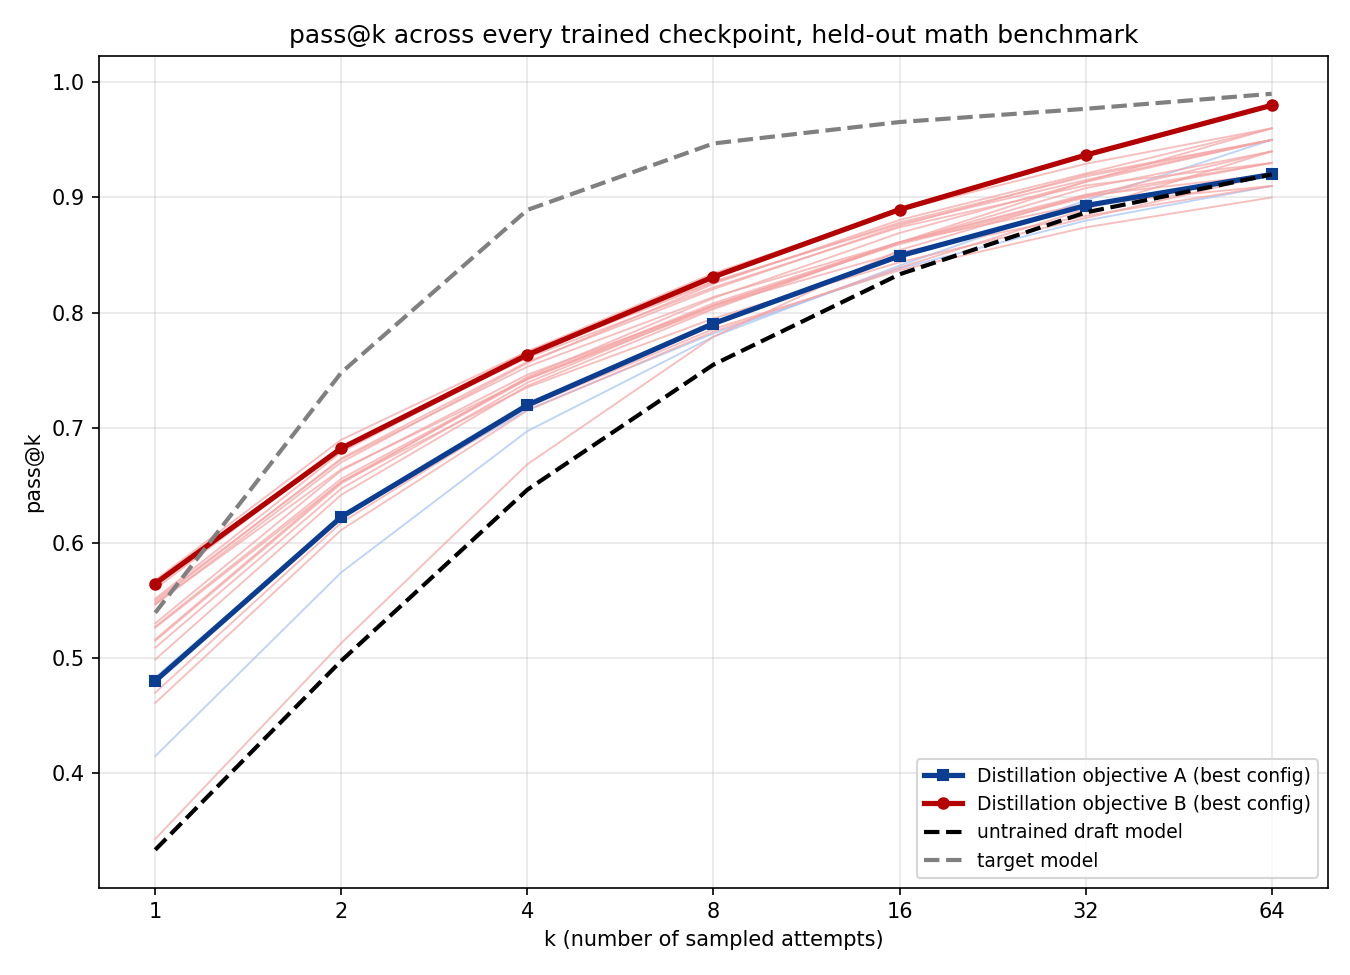
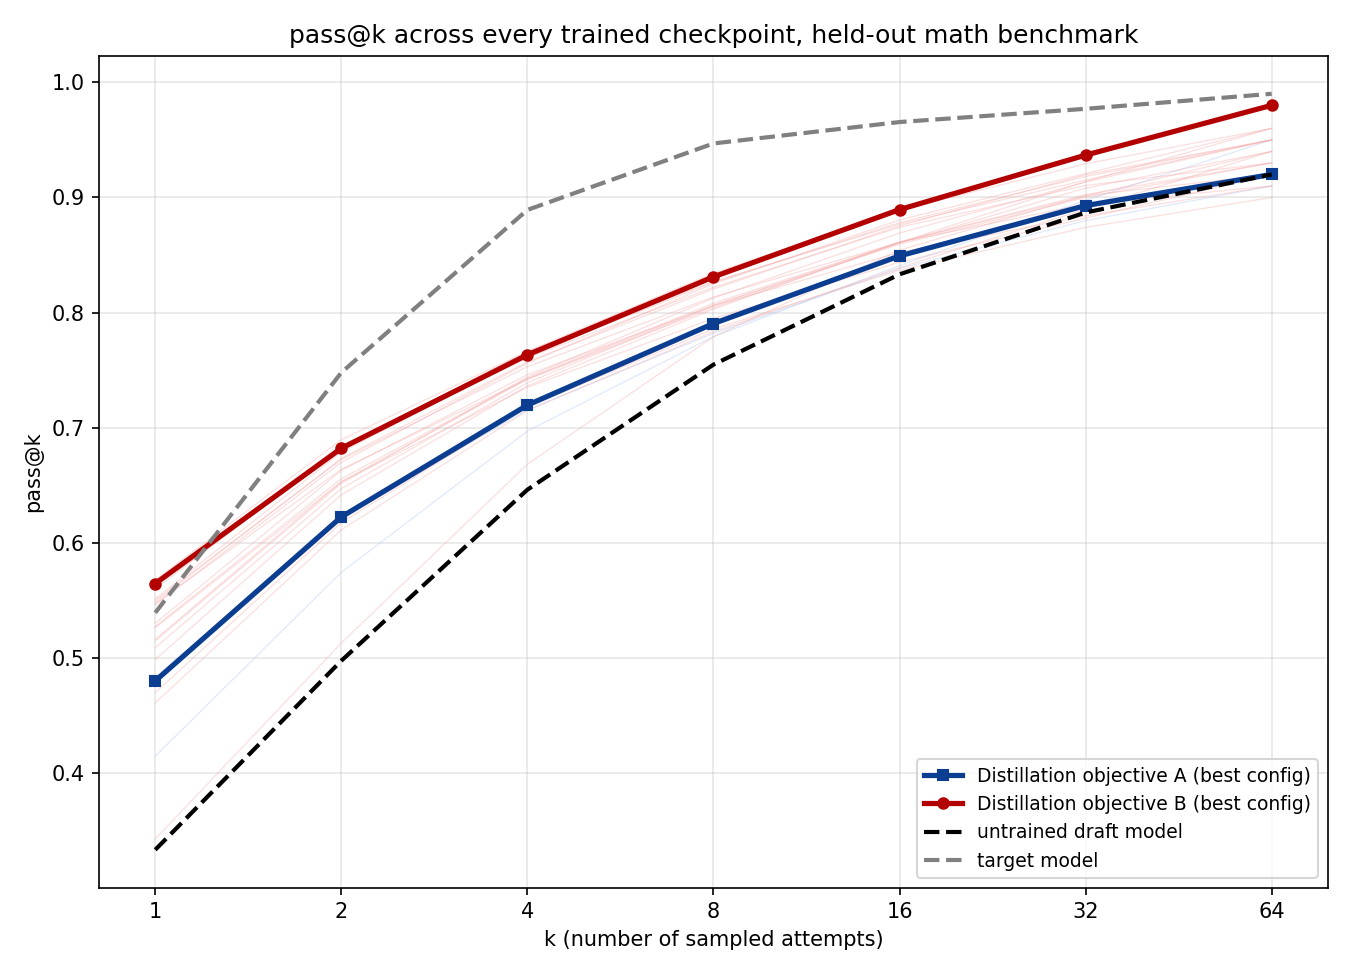
docs(notes): tighten Medium draft ~200 words, remove passive transitions
Moved codebase-size line into the intro bullets, split a dense
six-concept sentence, fixed passive framing ("The stronger result
came from..." -> direct statements), replaced "production runs" with
accurate "full experiment sweeps", strengthened the day-to-day
research-iteration sentence, and shortened redundant image alt-text
since the italic captions already carry that detail. Also faded the
pass@k chart's background curves further so the two highlighted lines
dominate.

Changed region(s): [[0.1244, 0.1231, 0.9333, 0.7077]]

diff --git a/notes/medium_article_draft.md b/notes/medium_article_draft.md
@@ -6,69 +6,67 @@ Over eight weeks I:
 
 - Ran 500+ tracked experiments (about 250 training runs), logged in Weights & Biases
 - Evaluated 71 trained checkpoints across 4,000+ measurements
-- Built a multi-GPU experiment and evaluation pipeline in PyTorch and HuggingFace, with generation served through vLLM
-- Developed and experimentally validated hypotheses for why several distillation objectives underperformed in this setting. Some were adapted from published work, others were novel constructions we designed ourselves
+- Built a multi-GPU experiment and evaluation pipeline in PyTorch and HuggingFace, with generation served through vLLM, growing to roughly 10,000 lines of training, evaluation, and experiment-management code
+- Developed and experimentally validated hypotheses for why several distillation objectives, some adapted from published work and some designed from scratch, underperformed in this setting
 - Developed a multi-sample distillation approach that beat the standard flat-divergence baseline (JSD)
 - Extended a verification-time speculative decoding technique to trained draft models. The original paper only evaluated it on untrained ones
 
-The project combined research, systems engineering, and experimental design. That meant reproducing published methods, building scalable infrastructure, and figuring out why objectives succeeded or failed.
+The project combined research, systems engineering, and experimental design: reproducing published methods, building scalable infrastructure, and figuring out why objectives succeeded or failed.
 
 ## The problem
 
-LLMs decode one token at a time, and each token costs a full forward pass. Speculative decoding adds a small, fast draft model that proposes several tokens ahead. A large target model then verifies them in one parallel pass and accepts the longest matching prefix. The core metric is block efficiency: accepted tokens per target call. Raising it means raising the draft's acceptance rate, and the standard lever for that is knowledge distillation, training the draft to match the target's output distribution. The project's central question was which distillation objective actually moves block efficiency, tested on a Qwen 0.6B/8B draft-target pair and a wider Qwen 1.7B/32B pair.
+LLMs decode one token at a time, and each token costs a full forward pass. Speculative decoding adds a small, fast draft model that proposes several tokens ahead. A large target model then verifies them in one parallel pass and accepts the longest matching prefix. The core metric is block efficiency: accepted tokens per target call.
 
-The codebase grew to roughly 10,000 lines of PyTorch training, evaluation, and experiment-management code, covering automated checkpointing, multi-GPU experiment orchestration, and analysis tooling. That excludes a separately vendored verifier library used as-is.
+Raising block efficiency means raising the draft's acceptance rate, and the standard lever for that is knowledge distillation: training the draft to match the target's output distribution. The project's central question was which distillation objective actually moves block efficiency, tested on a Qwen 0.6B/8B draft-target pair and a wider Qwen 1.7B/32B pair.
 
-![Project architecture: the speculative decoding inference loop, the distillation training loop built on top of it, and the multi-GPU evaluation pipeline used to measure everything.](medium_chart_architecture.png)
+![Project architecture](medium_chart_architecture.png)
 *Three layers: the inference-time mechanism being optimized, the training loop that shapes the draft model, and the evaluation infrastructure that measured whether it worked.*
 
 ## Building the research infrastructure
 
-I built a multi-GPU experiment pipeline supporting parallel training, checkpoint recovery after crashes, automated evaluation across every verifier by tree-width by dataset combination, and cross-checkpoint analysis at scale. It started on a memory-constrained Colab T4 (which needed 4-bit quantization to fit the 8B target), moved to Kaggle's dual-T4 setup, then to A100s for production runs. A separate vLLM-based evaluation pipeline generated tens of thousands of samples for pass@k benchmarking. It relies on a paged KV-cache (a cache of each token's attention keys and values so the model doesn't recompute them at every new step) plus continuous batching, which together keep generation fast enough to be usable at that scale. I added resumable, checkpoint-skipping logic on top so a killed run never lost completed work.
+I built a multi-GPU experiment pipeline for parallel training, checkpoint recovery after crashes, automated evaluation across every verifier by tree-width by dataset combination, and cross-checkpoint analysis at scale. It started on a memory-constrained Colab T4, needing 4-bit quantization just to fit the 8B target, then Kaggle's dual-T4 setup, then A100s for the full experiment sweeps. A separate vLLM-based pipeline generated tens of thousands of samples for pass@k benchmarking, using a paged KV-cache (each token's attention keys and values, cached so the model never recomputes them) plus continuous batching to stay fast at that scale, with resumable, checkpoint-skipping logic so a killed run never lost completed work.
 
-A typical experiment cycle looked like this: implement a new loss variant in PyTorch, validate its gradient behavior against a known baseline on a handful of steps, launch a multi-GPU sweep tracked in Weights & Biases, evaluate every resulting checkpoint across the full verifier grid, then write or extend an analysis script to compare acceptance metrics and pass@k against prior runs.
+A typical research iteration involved implementing a new objective in PyTorch, validating its gradients on a handful of toy steps, launching multi-GPU sweeps across all 500+ runs tracked in Weights & Biases, evaluating every checkpoint across the full verifier grid, and extending custom analysis scripts to check whether observed gains exceeded the estimated noise floor rather than being single-seed noise.
 
-One infrastructure bug is worth calling out on its own. FlashAttention and PyTorch's native SDPA kernel compute mathematically identical attention but round differently in bf16. Almost everywhere that's invisible. Here, acceptance is a hard threshold, so a last-decimal rounding difference can flip one accepted token and cascade through the rest of a generation. Two runs on two machines, identical except for attention backend, diverged by roughly 0.2 block efficiency, comparable to the effects I was trying to measure. The fix was to pin one backend everywhere and log which ran, but finding it required reasoning about kernel-level numerics, not model architecture.
-
-All 500+ runs were tracked in Weights & Biases across two projects, with custom analysis tooling to surface hyperparameter effects and flag single-seed noise before it got mistaken for a real result.
+One infrastructure bug is worth calling out on its own. FlashAttention and PyTorch's native SDPA kernel compute mathematically identical attention but round differently in bf16, almost always invisibly. Here, acceptance is a hard threshold, so a last-decimal rounding difference can flip one accepted token and cascade through the rest of a generation. Two runs on two machines, identical except for attention backend, diverged by roughly 0.2 block efficiency, comparable to the effects I was trying to measure. Fixing it meant pinning one backend everywhere and logging which ran, which required reasoning about kernel-level numerics, not model architecture.
 
 ## Investigating training objectives
 
 I designed ablation studies to isolate which distillation objectives transfer to higher block efficiency, and which only look correct on paper.
 
-A verifier-aligned tree loss, a training objective built directly around the same accept/reject rule used at inference time, optimized a telescoping product of per-step acceptance probabilities. That trains the draft to match the target deep into a sequence of guesses, not just the first token. A log-space reformulation prevented the gradient from vanishing at depth, but it also shifted the objective's weighting toward deep, low-probability continuations the draft rarely reached in practice. That led to consistently worse training dynamics, and outright collapse in a from-scratch, wider-capacity-gap setting where block efficiency dropped by 0.4 to 0.6. A second objective, built to target the exact deployment verifier directly (the most "aligned" choice on paper), was the single worst-performing variant tested, for a similar reason: matching the target's exact acceptance criterion turned out to weight the objective toward positions the draft could not yet reach. These results suggested that an objective aligned with the eval metric on paper isn't automatically trainable. Gradient allocation across the sequence mattered more than how closely the objective's form matched the final metric.
+One family I tested was a verifier-aligned tree loss: a training objective built directly around the same accept/reject rule used at inference time, training the draft to match the target deep into a sequence of guesses, not just the first token. Written naturally, its gradient signal vanishes with depth. The standard fix, a log-space reformulation, solves that but shifts weight toward deep, low-probability continuations the draft rarely reaches in practice. I applied it, and results got worse, including an outright collapse in a from-scratch, wider-capacity-gap setting where block efficiency dropped by 0.4 to 0.6. A second objective, built to target the exact deployment verifier directly, the most "aligned" choice on paper, was the single worst performer of all, for the same reason: matching the target's exact acceptance criterion pushed weight onto positions the draft could not yet reach. The lesson: an objective aligned with the eval metric on paper is not automatically trainable. Gradient allocation across the sequence mattered more than how closely its form matched the final metric.
 
-Two further hypotheses looked unlikely to work before I ran them, and I ran a number of variants of each anyway to confirm it. A depth-weighted curriculum used a detached scalar multiplying the loss, which rescales gradient magnitude, not direction, so it couldn't address a capacity bottleneck no matter how it was tuned. Several weighting schemes across two model pairs bore that out. A REINFORCE-based formulation rewarded block efficiency directly. In this setting, the policy-gradient objective encouraged the draft to concentrate around its own high-reward trajectories rather than matching the target's broader output distribution, and the metric declined in a clean, monotonic pattern consistent with that mechanism.
+Two further hypotheses looked unlikely to work before I ran them, and I confirmed both with several variants each. A depth-weighted curriculum used a detached scalar multiplying the loss, which rescales gradient magnitude, not direction, so it could not fix a capacity bottleneck no matter how it was tuned, and it did not. A REINFORCE-based formulation rewarded block efficiency directly, but that objective pulls a model toward its own high-reward trajectories rather than the target's broader output distribution, and the metric declined in a clean, monotonic pattern consistent with that mechanism.
 
 ## Extending existing methods
 
-The one training-side change that beat the baseline was distilling on multiple stochastic rollouts sampled from the target, instead of a single greedy continuation. Broader coverage of the target's actual output distribution outperformed standard JSD distillation, with a sweet spot at four rollouts, and the gain held on an out-of-distribution eval set.
+Multi-rollout distillation, sampling several stochastic continuations from the target instead of a single greedy one, was the one training-side change that beat the baseline. Broader coverage of the target's actual output distribution outperformed standard JSD distillation, with a sweet spot at four rollouts, and the gain held on an out-of-distribution eval set.
 
-The stronger result came from the verification side. A recent technique delays where the draft's speculation tree branches, committing to a single stem before splitting into candidates instead of branching at the first token, targeting branch points where draft and target distributions actually diverge. The original paper evaluated this only on untrained draft models. I built it out and swept it across every trained checkpoint in the project, on both the 0.6B/8B and 1.7B/32B pairs. It improved block efficiency on nearly all of them, with gains increasing at greater speculation depth and larger on weaker starting checkpoints. To the best of my knowledge, I couldn't find a prior evaluation of this technique on trained, distilled drafts. Stacking it on top of the multi-rollout distillation above produced the best single block-efficiency result in the project.
+I found the strongest improvement on the verification side. A recent technique delays where the draft's speculation tree branches, committing to a single stem before splitting into candidates, targeting the point where draft and target distributions actually diverge instead of branching at the first token. The original paper only evaluated this on untrained draft models. I swept it across every trained checkpoint in the project, on both the 0.6B/8B and 1.7B/32B pairs, and it improved block efficiency on nearly all of them, with larger gains at greater speculation depth and on weaker starting checkpoints. To the best of my knowledge, no prior work had evaluated this technique on trained, distilled drafts, and stacking it on the multi-rollout distillation above produced the best single block-efficiency result in the project.
 
-I then went further and derived the branch-point setting instead of grid-searching it. It tracks each checkpoint's own mean acceptance depth, so a stronger draft branches later on its own. The value comes from the model's measured behavior, not a search.
+I then derived the branch-point setting instead of grid-searching it. It tracks each checkpoint's own mean acceptance depth, so a stronger draft branches later on its own, a value read from the model's measured behavior rather than a search.
 
-![Delayed-branching lift across every trained checkpoint I evaluated, on both model-size pairs. Grey = baseline block efficiency, blue = with delayed branching.](medium_chart_ddte_anon.png)
+![Delayed-branching lift, both model pairs](medium_chart_ddte_anon.png)
 *Delayed tree-branching applied to every checkpoint I trained, across two draft/target size pairs. Nearly every checkpoint improved, with larger gains on weaker starting points.*
 
 ## Building better evaluation metrics
 
 Block efficiency measures whether the draft's output distribution matches the target's, not whether distillation makes the draft a better reasoner. To check that directly, I designed and built a pass@k evaluation pipeline: sample k completions per problem, check whether any is correct.
 
-Across checkpoints, this revealed effects invisible to block efficiency alone. Some checkpoints improved pass@1 while regressing at pass@64, consistent with distillation reducing output diversity even as it sharpened single-sample accuracy. Others improved reasoning despite lower acceptance rates than a different checkpoint, suggesting inference efficiency and reasoning quality respond to training in different ways. Training closed a real but bounded fraction of the gap between the untrained draft and the target, roughly a third to two-thirds depending on dataset and k, never the whole gap.
+Across checkpoints, this revealed effects invisible to block efficiency alone. Some checkpoints improved pass@1 while regressing at pass@64: distillation sharpened single-sample accuracy but narrowed output diversity, the opposite of what many-sample decoding needs. Others improved reasoning despite lower acceptance rates than a different checkpoint, so inference efficiency and reasoning quality respond to training differently. Training closed a real but bounded fraction of the gap to the target, roughly a third to two-thirds depending on dataset and k, never all of it.
 
-![pass@k across every trained checkpoint on a held-out math benchmark, against the untrained draft and the target model as reference lines.](medium_chart_passk_anon.png)
+![pass@k across every trained checkpoint](medium_chart_passk_anon.png)
 *Training closes part of the gap to the target model, never all of it, and by how much depends heavily on k.*
 
-I added two further axes: forgetting (regression on previously-solved problems mid-training, a backward-transfer check) and difficulty-bucketed accuracy (easy, medium, hard, split by baseline performance). Both surfaced runs that looked healthy in aggregate but were regressing on problems they'd already solved, or only helping on the easy bucket.
+I added two further axes: forgetting (regression on previously-solved problems mid-training, a backward-transfer check) and difficulty-bucketed accuracy (easy, medium, hard, split by baseline performance). Both surfaced runs that looked healthy in aggregate but were quietly regressing on already-solved problems, or only helping the easy bucket.
 
-Which dataset I evaluated on mattered as much as which checkpoint I was looking at. I ran everything across three benchmarks spanning very different difficulty levels, from grade-school-level word problems up through a harder competition-math set and finally an olympiad-level set. Both block efficiency and pass@k, and how much training improved either one, shifted noticeably by dataset: the easiest benchmark was close to saturated for every model, so it barely separated good runs from bad ones, while the harder sets showed much more spread in both the baseline scores and the size of the improvement from training.
+Which dataset I evaluated on mattered almost as much as which checkpoint. I ran everything across three benchmarks of increasing difficulty: grade-school word problems, a harder competition-math set, and an olympiad-level set. Both block efficiency and pass@k, and how much training improved either, shifted noticeably by dataset. The easiest set was close to saturated for every model, so it barely separated good runs from bad; the harder sets showed far more spread in both baseline scores and improvement size.
 
 None of this is meaningful without knowing how much run-to-run noise to expect. I estimated a per-k noise floor from near-duplicate configurations and compared it against the full spread observed across every setting swept.
 
-![Noise floor (grey) vs. the full observed spread across every swept configuration (blue), per sample count k.](medium_chart_noise_floor_anon.png)
+![Noise floor vs. observed spread, per k](medium_chart_noise_floor_anon.png)
 *At most k, the floor and the full sweep's spread are nearly identical, meaning most apparent differences between configurations are noise, not signal. k=64 is the exception, where the spread clearly exceeds the floor.*
 
 ## Closing
 
-The project reinforced something I'll carry into future ML research: reliable systems come from understanding optimization dynamics, evaluation design, and infrastructure together, not any one in isolation. The most valuable output wasn't a single experiment that won. It was building the discipline to test hypotheses rigorously, infrastructure reliable enough to trust the results it produced, and evaluation broad enough to catch what a single metric would have missed.
+This project reinforced something I'll carry into future ML research: reliable systems come from optimization, evaluation, and infrastructure together, not any one in isolation. The most valuable output was not a single winning experiment. It was the discipline to test hypotheses rigorously, infrastructure solid enough to trust the results it produced, and evaluation broad enough to catch what a single metric would miss.
